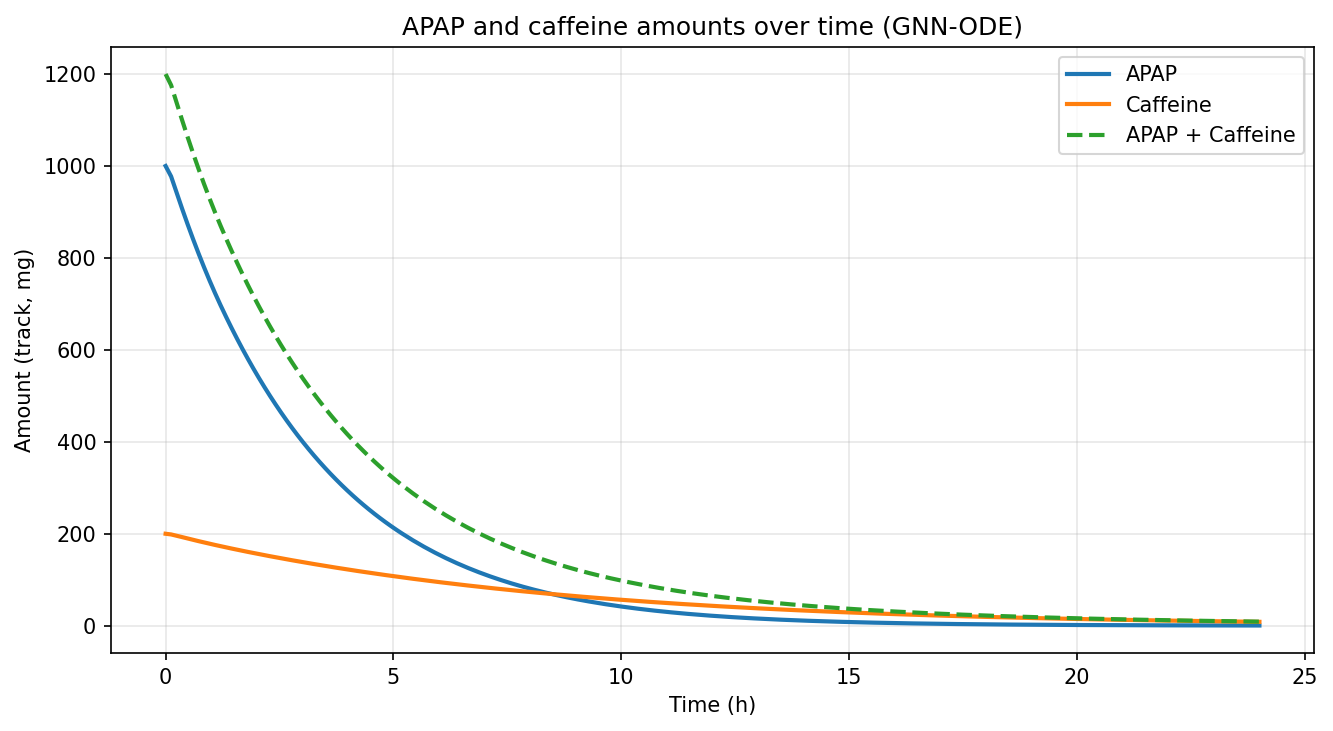
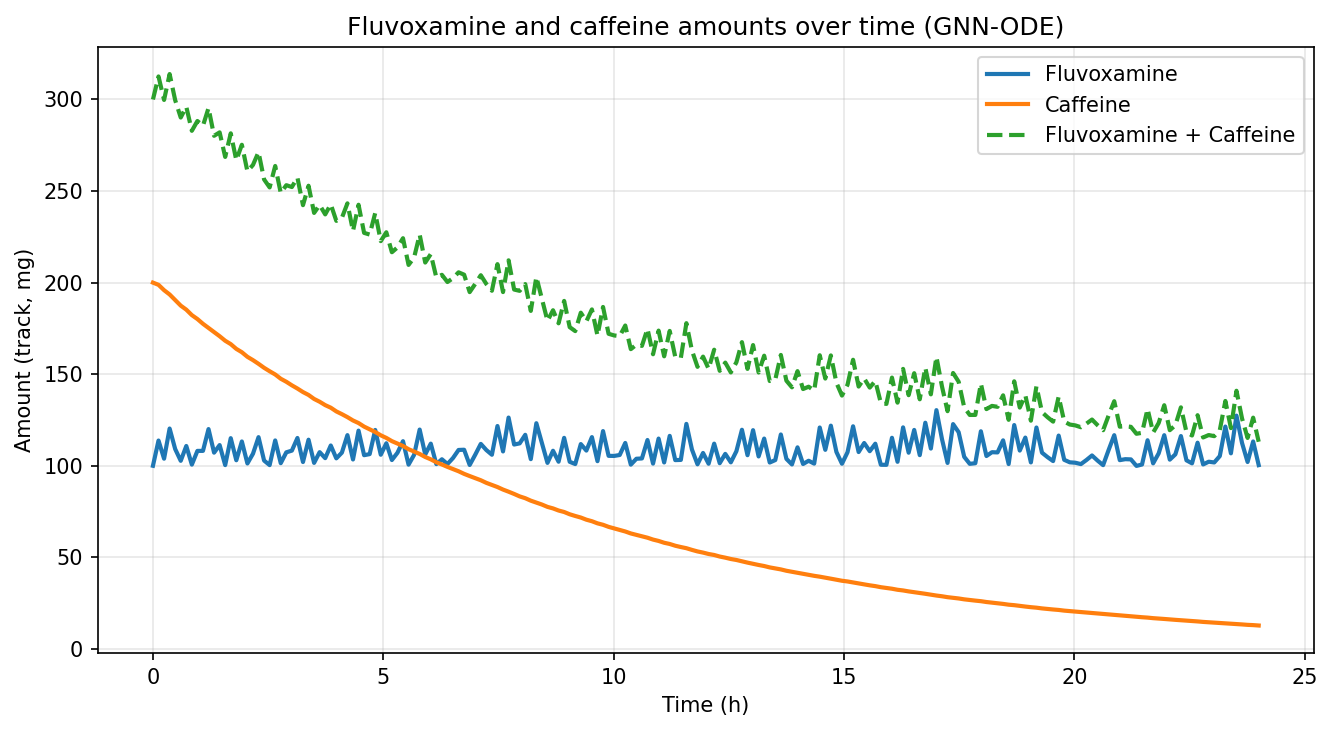
Update model weights and enhance drug interaction representation
- Updated `best_model.pt` with new trained weights for improved simulation accuracy.
- Added `trimethyluric_acid` metabolite and corresponding reaction pathways in `build_graph.py` to enhance the representation of caffeine metabolism.
- Modified enzyme nodes and reaction types to include CYP2D6 and CYP2C9, improving the model's ability to simulate drug-drug interactions.
- Adjusted kinetic parameters for caffeine metabolism in `gnn_ode.py` to reflect new insights on CYP3A4-mediated C8-hydroxylation.
- Removed outdated `ddi_curves.png` to streamline results presentation.

diff --git a/src/data/build_graph.py b/src/data/build_graph.py
@@ -28,6 +28,8 @@ SMILES = {
     "paraxanthine": "Cn1cnc2c1c(=O)[nH]c(=O)n2C",
     "theobromine": "Cn1cnc2c1c(=O)n(C)c(=O)[nH]2",
     "theophylline": "Cn1c(=O)c2[nH]cnc2n(C)c1=O",
+    # caffeine C8-hydroxylation metabolite (1,3,7-trimethyluric acid)
+    "trimethyluric_acid": "CN1C2=C(C(=O)N(C1=O)C)N(C(=O)N2)C",
 }
 
 
@@ -117,6 +119,8 @@ ENZYME_NODES = [
     "CYP2E1",
     "CYP1A2",
     "CYP3A4",
+    "CYP2D6",
+    "CYP2C9",
     "UGT1A1",
     "SULT1A1",
     "GST",
@@ -136,6 +140,7 @@ REACTION_NODES = [
     "rxn_caff_n3_demethylation",
     "rxn_caff_n1_demethylation",
     "rxn_caff_n7_demethylation",
+    "rxn_caff_c8_hydroxylation",
     "rxn_clearance",
 ]
 
@@ -154,6 +159,7 @@ REACTION_TYPE = {
     "rxn_caff_n3_demethylation": "demethylation",
     "rxn_caff_n1_demethylation": "demethylation",
     "rxn_caff_n7_demethylation": "demethylation",
+    "rxn_caff_c8_hydroxylation": "hydroxylation",
     "rxn_clearance": "clearance",
 }
 REACTION_TYPE_VOCAB = sorted(set(REACTION_TYPE.values()))
@@ -175,6 +181,7 @@ METABOLITE_NODES = [
     "paraxanthine",
     "theobromine",
     "theophylline",
+    "trimethyluric_acid",
 ]
 
 ENDOGENOUS_MOLECULE_NODES = [
@@ -346,15 +353,20 @@ EDGES = {
     ("enzyme", "catalyzes", "reaction"): [
         ("CYP2E1", "rxn_cyp_oxidation"), ("CYP3A4", "rxn_cyp_oxidation"),
         ("CYP1A2", "rxn_cyp_oxidation"),
+        ("CYP2D6", "rxn_cyp_oxidation"), ("CYP2C9", "rxn_cyp_oxidation"),
         ("UGT1A1", "rxn_glucuronidation"), ("SULT1A1", "rxn_sulfation"),
         ("GST", "rxn_gsh_conjugation"),
         # Caffeine demethylation: shared CYPs with APAP oxidation (DDI via MM denominator).
-        # CYP1A2 — N3, N1, N7; CYP2E1 — N1; CYP3A4 — N7.
+        # CYP1A2 — N3, N1, N7; CYP2E1 — N1; CYP3A4 — N7; CYP2D6 — N3; CYP2C9 — N7.
         ("CYP1A2", "rxn_caff_n3_demethylation"),
+        ("CYP2D6", "rxn_caff_n3_demethylation"),
         ("CYP1A2", "rxn_caff_n1_demethylation"),
         ("CYP1A2", "rxn_caff_n7_demethylation"),
+        ("CYP2C9", "rxn_caff_n7_demethylation"),
         ("CYP2E1", "rxn_caff_n1_demethylation"),
         ("CYP3A4", "rxn_caff_n7_demethylation"),
+        # C8-hydroxylation → 1,3,7-trimethyluric acid; CYP3A4-mediated (non-CYP1A2 route).
+        ("CYP3A4", "rxn_caff_c8_hydroxylation"),
     ],
 
     # Competitive Ki on CYP1A2; CYP2E1/CYP3A4 DDI also via shared substrate denominators.
@@ -370,6 +382,7 @@ EDGES = {
         ("caffeine", "rxn_caff_n3_demethylation"),
         ("caffeine", "rxn_caff_n1_demethylation"),
         ("caffeine", "rxn_caff_n7_demethylation"),
+        ("caffeine", "rxn_caff_c8_hydroxylation"),
     ],
     ("metabolite", "reactant_in", "reaction"): [
         ("NAPQI", "rxn_gsh_conjugation"), ("NAPQI", "rxn_covalent_binding"),
@@ -394,6 +407,7 @@ EDGES = {
         ("rxn_caff_n3_demethylation", "paraxanthine"),
         ("rxn_caff_n1_demethylation", "theobromine"),
         ("rxn_caff_n7_demethylation", "theophylline"),
+        ("rxn_caff_c8_hydroxylation", "trimethyluric_acid"),
         ("rxn_gsh_conjugation", "NAPQI_glutathione"),
     ],
     # Terminal metabolites only; reactive NAPQI is consumed, not renally cleared.
@@ -403,6 +417,7 @@ EDGES = {
         ("paraxanthine", "rxn_clearance"),
         ("theobromine", "rxn_clearance"),
         ("theophylline", "rxn_clearance"),
+        ("trimethyluric_acid", "rxn_clearance"),
     ],
     ("drug", "cleared_via", "reaction"): [
         ("acetaminophen", "rxn_clearance"),
@@ -457,6 +472,8 @@ NODE_VALUES = {
         "CYP2E1":  {"baseline_abundance_pmol_mg": 49.0,  "PGx_phenotype_multiplier": 1.0, "is_active": 1.0, "protein_half_life_hrs": 27.0},
         "CYP1A2":  {"baseline_abundance_pmol_mg": 52.0,  "PGx_phenotype_multiplier": 1.0, "is_active": 1.0, "protein_half_life_hrs": 39.0},
         "CYP3A4":  {"baseline_abundance_pmol_mg": 137.0, "PGx_phenotype_multiplier": 1.0, "is_active": 1.0, "protein_half_life_hrs": 70.0},
+        "CYP2D6":  {"baseline_abundance_pmol_mg": 35.0,  "PGx_phenotype_multiplier": 1.0, "is_active": 1.0, "protein_half_life_hrs": 36.0},
+        "CYP2C9":  {"baseline_abundance_pmol_mg": 45.0,  "PGx_phenotype_multiplier": 1.0, "is_active": 1.0, "protein_half_life_hrs": 48.0},
         "UGT1A1":  {"baseline_abundance_pmol_mg": 30.0,  "PGx_phenotype_multiplier": 1.0, "is_active": 1.0, "protein_half_life_hrs": 30.0},
         "SULT1A1": {"baseline_abundance_pmol_mg": 15.0,  "PGx_phenotype_multiplier": 1.0, "is_active": 1.0, "protein_half_life_hrs": 24.0},
         "GST":     {"baseline_abundance_pmol_mg": 100.0, "PGx_phenotype_multiplier": 1.0, "is_active": 1.0, "protein_half_life_hrs": 48.0},
@@ -542,19 +559,27 @@ EDGE_VALUES = {
     ("enzyme", "catalyzes", "reaction"): {
         # Kcat (min⁻¹) IVIVE-calibrated so whole-body clearance matches clinical t½
         # under the flow-limited liver (Kp~1); ~10x APAP, ~4x caffeine vs raw in-vitro.
-        ("CYP2E1", "rxn_cyp_oxidation"):          {"Km": 1000.0, "Ki": 1e6, "Kcat": 45.0},
-        ("CYP3A4", "rxn_cyp_oxidation"):          {"Km": 130.0, "Ki": 80, "Kcat": 21.0},
+        ("CYP2E1", "rxn_cyp_oxidation"):          {"Km": 1000.0, "Ki": 1e6, "Kcat": 9.0},
+        ("CYP3A4", "rxn_cyp_oxidation"):          {"Km": 130.0, "Ki": 80, "Kcat": 5.0},
         ("CYP1A2", "rxn_cyp_oxidation"):          {"Km": 2000.0, "Ki": 1e6, "Kcat": 10.0},
+        ("CYP2D6", "rxn_cyp_oxidation"):          {"Km": 5000.0, "Ki": 1e6, "Kcat": 2.0},
+        ("CYP2C9", "rxn_cyp_oxidation"):          {"Km": 8000.0, "Ki": 1e6, "Kcat": 1.5},
         ("UGT1A1", "rxn_glucuronidation"):        {"Km": 3500.0, "Ki": 1e6, "Kcat": 20.0},
         ("SULT1A1", "rxn_sulfation"):             {"Km": 250.0,  "Ki": 1e6, "Kcat": 12.0},
         ("GST", "rxn_gsh_conjugation"):           {"Km": 900.0,  "Ki": 1e6, "Kcat": 6.1},
 
         # Caffeine demethylation: route split ~84:12:4 (N3:N1:N7); enzymes share CYPs with APAP.
+        # N1/N7 Kcat scaled 1.47x (3:1 ratio kept) so N1+N7 = 20% of caffeine CL at 1A2-ON.
         ("CYP1A2", "rxn_caff_n3_demethylation"): {"Km": 200.0,  "Ki": 1e6, "Kcat": 8.0},
-        ("CYP1A2", "rxn_caff_n1_demethylation"): {"Km": 200.0,  "Ki": 1e6, "Kcat": 1.14},
-        ("CYP1A2", "rxn_caff_n7_demethylation"): {"Km": 200.0,  "Ki": 1e6, "Kcat": 0.38},
-        ("CYP2E1", "rxn_caff_n1_demethylation"): {"Km": 43000.0,  "Ki": 1e6, "Kcat": 2.50},
+        ("CYP2D6", "rxn_caff_n3_demethylation"): {"Km": 400.0,  "Ki": 1e6, "Kcat": 1.0},
+        ("CYP1A2", "rxn_caff_n1_demethylation"): {"Km": 200.0,  "Ki": 1e6, "Kcat": 1.6757},
+        ("CYP1A2", "rxn_caff_n7_demethylation"): {"Km": 200.0,  "Ki": 1e6, "Kcat": 0.5586},
+        ("CYP2C9", "rxn_caff_n7_demethylation"): {"Km": 1500.0, "Ki": 1e6, "Kcat": 0.8},
+        ("CYP2E1", "rxn_caff_n1_demethylation"): {"Km": 40000.0,  "Ki": 1e6, "Kcat": 2.50},
         ("CYP3A4", "rxn_caff_n7_demethylation"): {"Km": 40000.0,  "Ki": 3000, "Kcat": 1.0},
+        # C8-hydroxylation (CYP3A4): ~10-15% of caffeine CL at CYP1A2-ON; Km near the
+        # other caffeine routes so the Vmax fraction ≈ flux fraction.
+        ("CYP3A4", "rxn_caff_c8_hydroxylation"): {"Km": 300.0,  "Ki": 1e6, "Kcat": 1.5},
     },
     ("drug", "competitively_inhibits", "enzyme"): {
         ("caffeine", "CYP1A2"): {"Ki": 80.0},  # μM
@@ -568,6 +593,7 @@ EDGE_VALUES = {
         ("paraxanthine", "rxn_clearance"):              {"k_clear": 0.3},
         ("theobromine", "rxn_clearance"):               {"k_clear": 0.2},
         ("theophylline", "rxn_clearance"):              {"k_clear": 0.2},
+        ("trimethyluric_acid", "rxn_clearance"):        {"k_clear": 0.3},
     },
     # Unchanged parent in urine (~3% of dose over 48 h); first-order loss from plasma → A_urine_sink.
     ("drug", "cleared_via", "reaction"): {
@@ -582,6 +608,8 @@ EDGE_VALUES = {
         ("patient_0", "CYP2E1"):  {"activity_multiplier": 1.0},
         ("patient_0", "CYP1A2"):  {"activity_multiplier": 1.0},
         ("patient_0", "CYP3A4"):  {"activity_multiplier": 1.0},
+        ("patient_0", "CYP2D6"):  {"activity_multiplier": 1.0},
+        ("patient_0", "CYP2C9"):  {"activity_multiplier": 1.0},
         ("patient_0", "UGT1A1"):  {"activity_multiplier": 1.0},
         ("patient_0", "SULT1A1"): {"activity_multiplier": 1.0},
         ("patient_0", "GST"):     {"activity_multiplier": 1.0},

diff --git a/src/models/gnn_ode.py b/src/models/gnn_ode.py
@@ -26,6 +26,7 @@ STATE_NAMES = [
     "A_liver_apap_gluc", "A_liver_apap_sulf", "A_liver_theobromine", "A_liver_theophylline",
     "A_napqi_adduct_sink", "A_urine_sink",
     "A_periph_apap", "A_periph_caffeine",
+    "A_trimethyluric",
 ]
 STATE_IDX = {name: i for i, name in enumerate(STATE_NAMES)}
 
@@ -55,6 +56,7 @@ PRODUCT_STATE = {
     "acetaminophen_sulfate": STATE_IDX["A_liver_apap_sulf"],
     "theobromine": STATE_IDX["A_liver_theobromine"],
     "theophylline": STATE_IDX["A_liver_theophylline"],
+    "trimethyluric_acid": STATE_IDX["A_trimethyluric"],
     "NAPQI_glutathione": STATE_IDX["A_urine_sink"],
 }
 # Co-substrates consumed 1:1 with flux (e.g. GSH in conjugation).
@@ -71,6 +73,7 @@ SPECIES_MW = {
     "acetaminophen_sulfate": 231.22,
     "theobromine": 180.16,
     "theophylline": 180.16,
+    "trimethyluric_acid": 210.19,
 }
 
 # Graph stores Kcat in min⁻¹; ODE time is hours.
@@ -307,10 +310,11 @@ def build_ode_index(data: HeteroData) -> dict:
 
 
 def trajectory_to_curves(traj: torch.Tensor, v_plasma: torch.Tensor) -> torch.Tensor:
-    """Map ODE trajectory to ``[7, T, 2]`` metabolite/parent concentrations (ng/mL).
+    """Map ODE trajectory to ``[8, T, 2]`` metabolite/parent concentrations (ng/mL).
 
-    Column 0 = metabolite; column 1 = parent plasma. NAPQI_glutathione uses
-    GSH consumed as a proxy (no dedicated state).
+    Row order tracks ``METABOLITE_NODES``. Column 0 = metabolite; column 1 = the
+    parent plasma curve. NAPQI_glutathione uses GSH consumed as a proxy (no
+    dedicated state).
     """
     c = traj / v_plasma * NG_PER_MG_PER_L  # [T, S] ng/mL
     i_gsh = STATE_IDX["A_gsh"]
@@ -323,14 +327,15 @@ def trajectory_to_curves(traj: torch.Tensor, v_plasma: torch.Tensor) -> torch.Te
         c[:, STATE_IDX["A_paraxanthine"]],        # paraxanthine
         c[:, STATE_IDX["A_liver_theobromine"]],   # theobromine
         c[:, STATE_IDX["A_liver_theophylline"]],  # theophylline
+        c[:, STATE_IDX["A_trimethyluric"]],       # 1,3,7-trimethyluric acid (C8)
     ], dim=0)
     i_apap_p = STATE_IDX["A_plasma_apap"]
     i_caff_p = STATE_IDX["A_plasma_caffeine"]
     parent = torch.stack([
         c[:, i_apap_p], c[:, i_apap_p], c[:, i_apap_p], c[:, i_apap_p],
-        c[:, i_caff_p], c[:, i_caff_p], c[:, i_caff_p],
+        c[:, i_caff_p], c[:, i_caff_p], c[:, i_caff_p], c[:, i_caff_p],
     ], dim=0)
-    return torch.stack([metab, parent], dim=-1).clamp(min=0.0)  # [7, T, 2]
+    return torch.stack([metab, parent], dim=-1).clamp(min=0.0)  # [8, T, 2]
 
 
 class MichaelisMentenODE(nn.Module):
@@ -345,7 +350,7 @@ class MichaelisMentenODE(nn.Module):
         self,
         factors: torch.Tensor,
         idx: dict,
-        k_tox: float = 0.5,
+        k_tox: float = 0.01,
         debug: bool = False,
     ):
         super().__init__()
@@ -527,7 +532,7 @@ class GNNODEModel(nn.Module):
 
         # Fixed-step rk4: bounds memory vs adaptive solver during backprop through odeint.
         traj = odeint(self.build_ode(factors), y0, t, method="rk4",
-                      options={"step_size": 0.025})
+                      options={"step_size": 0.0025})
 
         v_plasma = data["compartment"].x_static[0, 0].abs().clamp(min=1.0)
         curves = trajectory_to_curves(traj, v_plasma)